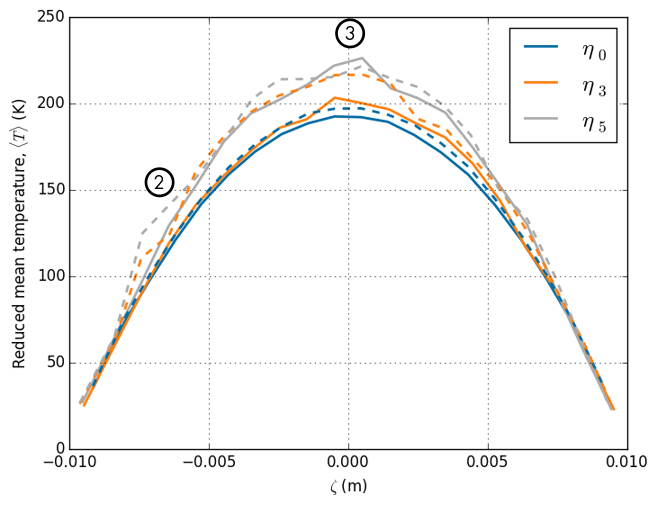
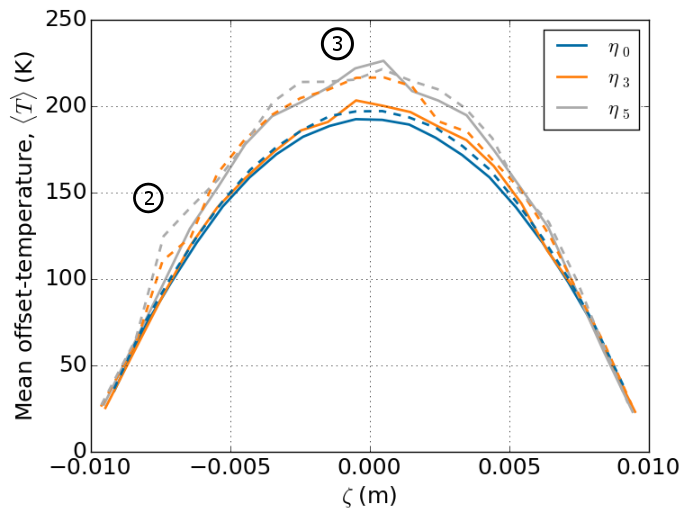
updates
changes the ISFNT section to reflect most recent updates on article.

diff --git a/chapters/application.tex b/chapters/application.tex
@@ -261,10 +261,16 @@ inlet temperature (\si{\kelvin})                    & $T_i$            & 573    
 
 
 \subsubsection{Modeling crush events}
-Models have been proposed in the past which translate experimental measurements of granular crushing into contact forces in an ensemble to predicty granular crushing, \textit{e.g.} Refs.~\cite{Gan:2010kc,Russell2009,Zhao2012,VanLew2015a,Annabattula2014}, but no validation has set any model apart as yet. Here, packed beds experience artificial pebble-crushing events for which a chosen percentage, $\eta$, of initial pebbles (at randomized locations) fragment. Four crush percentages are used: $\eta = 0, 1, 3, 5\%$. Numerical models of crush events themselves have received attention. Annabattula, Zhao, and Gan attempted to model a crushing event as either a reduction in radius of the crushed pebble or a reduction in Young's modulus \cite{Annabattula2011,Zhao2013,Annabattula2012a}. Van Lew \textit{et al}~made similar simplifications when they considered a crushed pebble as being removed from the force network, thus being removed from the DEM domain \cite{VanLew2014}. 
+Models have been proposed in the past which translate experimental measurements of granular crushing into contact forces in an ensemble to predict granular crushing, \textit{e.g.} Refs.~\cite{Gan:2010kc,Russell2009,Zhao2012,VanLew2015a,Annabattula2014}, but no validation has set any model apart as yet. Here, packed beds experience artificial pebble-crushing events for which a chosen percentage, $\eta$, of initial pebbles (at randomized locations) fragment. Four pebble crush percentages are used: $\eta = 0, 1, 3, 5\%$. Numerical models of crush events themselves have received attention. Annabattula, Zhao, and Gan attempted to model a crushing event as either a reduction in radius of the crushed pebble or a reduction in Young's modulus \cite{Annabattula2011,Zhao2013,Annabattula2012a}. Van Lew \textit{et al}~made similar simplifications when they considered a crushed pebble as being removed from the force network, thus being removed from the DEM domain \cite{VanLew2014}. 
 
 %None of the approaches discussed above have been fully validated due to a lack of experimental results. 
-Building upon the theories of earlier models, we replace a parent pebble of radius $r$ with $N_c$ smaller daughter fragments, each of equal radius, $r_c$. After a crushing event, fragments are free to resettle through interstitial gaps in the pebble bed and original pebbles respond in kind with re-arrangement into a new metastable packing structure.  To conserve volume between pre- and post-crush, we can relate the number of daughter fragments to the radius ratio between fragments and parent, $r^* = r_c/r$, as $N_c = (1/r^*)^{3}$. Experimental studies of crushing brittle pebbles show many different modes of fragmentation, often with highly irregular sizes (see \textit{e.g.} Ref.\cite{Wu2004}). As a first effort, we compare the effect of fragmentation size by studying two different values, $r^*_1 = 0.32$ and $r^*_2 = 0.2$ which results in $N_{c,1} = 23$ and $N_{c,2} = 125$ daughters per crushed parent (at $\eta = 5\%$, for $r_2^*$ the system expands to \num{43200} pebbles). Conservation of energy of crush event is enforced by setting the temperature of daughter fragments to the parent pebble at the moment of crushing. After insertion, the daughter fragment temperatures then evolve in time with standard integration.
+In this work, we replace a parent pebble of radius $r$ with $N_c$ smaller daughter fragments, each of equal radius, $r_c$. After a crushing event, fragments are free to resettle through interstitial gaps in the pebble bed and original pebbles respond in kind with re-arrangement into a new metastable packing structure.  To conserve volume between pre- and post-crush, we can relate the number of daughter fragments to the radius ratio between fragments and parent, $r^* = r_c/r$, as $N_c = (1/r^*)^{3}$. Conservation of energy of crush events is enforced by setting the temperature of daughter fragments equal to the parent pebble at the moment of crushing. 
+
+Numeric techniques to handle overlap after crush events, as a consequence of volume conservation, were shown in \Cref{sec:failure-study}. To summarize the approach, in our fragmentation procedure, overlap and the associated high contact forces between the daughter fragments is permitted. Directly following a fragmentation event, a cut-off distance is applied to the velocity-Verlet integration of daughter fragments which prevents instabilities in position; \textit{e.g.} in any given timestep fragments are only allowed to travel $x_\text{cutoff}$, regardless of the distance calculated in integration. A short time is permitted for the daughter fragments to relax away from the highly-overlapped state; relaxation time was a function of number of pebble fragments and pebble fragment size. Contact forces in the system were monitored and when average values returned to pre-fragmentation levels, the relaxation procedure concluded, cut-off distance was removed, and standard velocity-Verlet integration of daughter pebbles was reinstated.
+
+Experimental studies of crushing brittle pebbles show many different modes of fragmentation, often with highly irregular sizes (see \textit{e.g.} Ref.\cite{Wu2004}). As a first effort, we compare the effect of fragmentation size by studying two different values, $r^*_1 = 0.32$ and $r^*_2 = 0.2$ which results in $N_{c,1} = 23$ and $N_{c,2} = 125$ daughters per crushed parent (at $\eta = 5\%$, for $r_2^*$ the system expands to \num{43200} pebbles). 
+
+
 
 
 
@@ -295,13 +301,13 @@ Several cross-sections are created at mid-planes in $z$. Representative results 
     \caption{Cuts at the mid-plane of $z$ for $\chi$-config beds. (a) bed initially packed to $\phi_2$, and (b) bed with crushing of $\eta_5$ pebbles with particle size $r_2^*$. Three important zones have been identified}\label{fig:3}
 \end{figure}
 
-Mean reduced temperatures in beds are found in slices of width $\Delta\zeta$ along $\zeta$. Pebble-weighted mean values are found as $\langle T\rangle = \frac{1}{V_n}\sum_{j}^n (T_j-T_w) V_j$, for $n$ pebbles of temperature $T_j$ consuming a total volume $V_n$ in the slice. Demonstrative cases of $\phi_2 = 0.64$ with $r_2^* = 0.2$ are given in \Cref{fig:64-T-profile} as functions of granular crushing percentage.
+Wall offset temperatures ($T-T_w$) in beds are found in slices of width $\Delta\zeta$ along $\zeta$. Pebble-weighted mean values are found as $\langle T\rangle = \frac{1}{V_n}\sum_{j}^n (T_j-T_w) V_j$, for $n$ pebbles of temperature $T_j$ consuming a total volume $V_n$ in the slice. Demonstrative cases of $\phi_2 = 0.64$ with $r_2^* = 0.2$ are given in \Cref{fig:64-T-profile} as functions of granular crushing percentage.
 
-Pebble bed internal stresses are found from normal and tangential forces that make up force networks in ensembles. Following the formulations described by Gan \& Kamlah \cite{Gan:2010uq}, the magnitude of the stress tensor, $|\sigma|$, is found for every pebble bed at steady-state heating and then normalized against initial ($\eta=0$) beds for respective configurations, given in \Cref{fig:eta-sigma}.%considered configuration, $\sigma^*=|\sigma|_\eta/|\sigma|_{\eta_0}$. %Normalized bed stresses decrease with increasing granular fragmentation, as seen in \Cref{fig:eta-sigma}, for all initial packings and bed orientations, by about 30 to 60\%.
+Following the formulations described by Gan \& Kamlah \cite{Gan:2010uq}, and Gan et al.\cite{An20072233}, we report the overall hydrostatic pressure of pebble beds, $p = \sigma_{ii}/3$, at steady-state heating. The values are normalized against initial ($\eta=0$) beds for respective configurations. Hydrostatic pressure is given in \Cref{fig:eta-sigma}.%considered configuration, $\sigma^*=|\sigma|_\eta/|\sigma|_{\eta_0}$. %Normalized bed stresses decrease with increasing granular fragmentation, as seen in \Cref{fig:eta-sigma}, for all initial packings and bed orientations, by about 30 to 60\%.
 
-A total mean bed temperature is found from all pebbles in the system as $\langle T\rangle_{tot} = \frac{1}{V_N}\sum_{j}^N (T_j-T_w) V_j$ where $N$ is the total number of ensemble pebbles. The total mean bed temperature is also normalized against initial packing cases of each respective set of beds. Results for all beds are given in \Cref{fig:eta-theta}. Maximum temperature rises of every bed are also found, $T_m = \max(T) - T_w$, and normalized against the maximum temperature in the initial packing of each respective set of beds. To avoid aberrent results from a bed which might have a single, very high temperature pebble, the maximum temperature, $\max(T)$, is calculated as a mean value of the 50 highest temperature pebbles. The results are given in \Cref{fig:eta-T_max}. In addition to total mean bed temperature, maximum temperature rise is also an important factor in evaluation of a pebble bed.
+A total mean bed temperature is found from all pebbles in the system as $\langle T\rangle_{tot} = \frac{1}{V_N}\sum_{j}^N (T_j-T_w) V_j$ where $N$ is the total number of ensemble pebbles. The total mean bed temperature is also normalized against initial packing cases of each respective set of beds. Results for all beds are given in \Cref{fig:eta-theta}. Maximum temperature rises of every bed are also found, $T_m = \max(T) - T_w$, and normalized against the maximum temperature in the initial packing of each respective set of beds. To avoid aberrant results from a bed which might have a single, very high temperature pebble, the maximum temperature, $\max(T)$, is calculated as a mean value of the 50 highest temperature pebbles. The results are given in \Cref{fig:eta-T_max}. In addition to total mean bed temperature, maximum temperature rise is also an important factor in evaluation of a pebble bed.
 
-Lastly, we consider how far pebble fragments travel in the bed after a crushing event. Total displacements from the moment of crush event to final resting, $|\Delta h|$, are normalized against the original pebble diameter, $|\Delta h|/d_p$. Histograms for 64\% packing fractions of $\chi$- and $\zeta$-configurations at 5\% pebble crushing are given in \Cref{fig:displacement_hists}. These two beds saw the most settling, all other beds tested saw considerably less fragment displacements.
+Lastly, we consider how far pebble fragments travel in the bed after a crushing event. Total displacements from the moment of crush event to final resting, $|\Delta h|$, are normalized against the original pebble diameter, $|\Delta h|/d_p$. Histograms for 64\% packing fractions of $\chi$- and $\zeta$-configurations at 5\% pebble crushing with fragment sizes $r_2^*$ are given in \Cref{fig:displacement_hists}. These two beds saw the most settling, all other beds tested saw considerably less fragment travel.
 
 
 
@@ -356,33 +362,33 @@ Lastly, we consider how far pebble fragments travel in the bed after a crushing 
 
 \begin{figure}[!t]
     \centering
-    \includegraphics[width=0.5\textwidth]{figures/64-percent-T-profiles-reduced.png}
-    \caption{Mean temperature profiles, $\langle T \rangle$, along $\zeta$ in beds with initial packing fractions $\phi_2 = 0.64$, fragmentation sizes were $r_2^*$. Solid lines are $\chi$ configurations, dashes lines are $\zeta$ configurations. Fragmentation settling of $\zeta$-configs are seen in `lumps' near Zone (2) and in the $\chi$-config spike in zone (3).}
+    \includegraphics[width=0.65\textwidth]{figures/64-percent-T-profiles-reduced.png}
+    \caption{Mean offset temperature profiles, $\langle T \rangle$, along $\zeta$ in beds with initial packing fractions $\phi_2 = 0.64$, fragmentation sizes were $r_2^*$. Solid lines are $\chi$ configurations, dashed lines are $\zeta$ configurations. Fragmentation settling of $\zeta$-configs are seen in `lumps' near Zone (2) and in the $\chi$-config spike in zone (3).}
     \label{fig:64-T-profile}
 \end{figure}
 
 \begin{figure}[!t]
     \centering
-    \includegraphics[width = 0.5\textwidth]{figures/eta-sigma.png}
+    \includegraphics[width = 0.65\textwidth]{figures/eta-sigma.png}
     \caption{Dashed lines represent the lower packing fraction, $\phi_1 = 0.62$, solid lines are $\phi_2 = 0.64$. Markers are: $\circ$ for $\zeta$-config, $\diamondsuit$ for $\chi$-config. Color differentiates the fragment radius ratio. Contact force relaxation is more rapid for lower packing fractions.}\label{fig:eta-sigma}
 \end{figure}
 
 \begin{figure}[!t]
     \centering
-    \includegraphics[width = 0.5\textwidth]{figures/eta-theta.png}
+    \includegraphics[width = 0.65\textwidth]{figures/eta-theta.png}
     \caption{Dashed lines represent the lower packing fraction, $\phi_1 = 0.62$, solid lines are $\phi_2 = 0.64$. Markers are: $\circ$ for $\zeta$-config, $\diamondsuit$ for $\chi$-config. Color differentiates the fragment radius ratio. Lower packing fraction is the most dominant parameter for overall bed temperature. Amongst the same packing fraction, fragment size is most influential factor.}\label{fig:eta-theta}
 \end{figure}
 
 \begin{figure}[!t]
     \centering
-    \includegraphics[width = 0.5\textwidth]{figures/eta-T_max.png}
+    \includegraphics[width = 0.65\textwidth]{figures/eta-T_max.png}
     \caption{Dashed lines represent the lower packing fraction, $\phi_1 = 0.62$, solid lines are $\phi_2 = 0.64$. Markers are: $\circ$ for $\zeta$-config, $\diamondsuit$ for $\chi$-config. Color differentiates the fragment radius ratio. The dominant parameter influencing maximum bed temperature varies as a function of the number of crushed pebbles in the bed.}\label{fig:eta-T_max}
 \end{figure}
 
 \begin{figure}[!t]
     \centering
     \includegraphics[width = 0.65\textwidth]{figures/displacement_histograms.png}
-    \caption{Normalized displacement histograms. $\chi$-config: 59.7\% of fragments travel up to \SI{1}{\milli\meter} and 8.2\% travel more than \SI{2}{\milli\meter}; $\zeta$-config: 60.7\% of fragments travel up to \SI{1}{\milli\meter}, 7.9\% travel more than \SI{2}{\milli\meter}.}\label{fig:displacement_hists}
+    \caption{Normalized displacement histograms for fragment sizes of $r_2^* = 0.2$ with $\eta = 5\%$. $\chi$-config: 59.7\% of fragments travel up to \SI{1}{\milli\meter} and 8.2\% travel more than \SI{2}{\milli\meter}; $\zeta$-config: 60.7\% of fragments travel up to \SI{1}{\milli\meter}, 7.9\% travel more than \SI{2}{\milli\meter}.}\label{fig:displacement_hists}
 \end{figure}
 
 % Conductive heat transport in granular materials is dependent on normal forces between pebbles, and normal forces need not be isotropically distributed through beds. To investigate directional dependence, we calculate angular distributions of granular contacts and forces between every pair of interacting pebbles in the ensemble. Contact angle is measured between vectors pointing between contacting pebbles and $\zeta$. In other words, the most direct path for heat out of the system is along contacts at angles of $\theta=0,\pi$; magnitudes of contact forces around those angles dictate the ability of systems to discharge heat to coolant. A mean contact force, $\langle F_n \rangle$, is found inside wedges of $\Delta\theta$ in the same manner described above for ensemble-averaged temperature values. Mean forces for varying fragmentation amount, fragmentation size, initial packing density, and orientation are plotted in \Cref{fig:force-polars}.
@@ -411,15 +417,15 @@ Lastly, we consider how far pebble fragments travel in the bed after a crushing 
 
 Analyzing results of all the pebble beds in this study revealed two main contributors to bed temperatures with resettling from pebble crushing: final settling location of fragment particles and overall contact force relaxation. The two interacting contributors were found to be expressed to different extents depending on crush amount and bed configuration.
 
-Bed stress (a global measure of inter-particle contact forces) is predominately a function of initial packing fraction alone, as seen in \Cref{fig:eta-sigma}. Smaller initial packing fractions had their internal stress reduced more rapidly as pebbles crushed in the ensemble. Breeder orientation appears to have less impact on stress relief than size of crush fragments. Due to the inter-connected nature of the force network, and geometry of beds studied here, resettling in beds and contact force relaxation is uniform throughout the beds. Thus we expect reductions in contact forces to directly result in an overall increase of bed temperatures. This is reflected in the curves of \Cref{fig:eta-theta}. Total mean temperatures of $\phi_1 = 0.62$ beds increased between \numrange{16}{19}\% at $\eta = 5\%$. Yet beds initially packed to $\phi_2 = 0.64$ increased by only \numrange{10}{13}\% at the same value of crushed pebble amount.
+Hydrostatic pressure (a global measure of inter-particle contact forces) is predominately a function of initial packing fraction alone, as seen in \Cref{fig:eta-sigma}. Smaller initial packing fractions had their internal hydrostatic pressures reduced more rapidly as pebbles crushed in the ensemble. Breeder orientation appears to have less impact on stress relief than size of crush fragments. Due to the inter-connected nature of the force network, and geometry of beds studied here, resettling in beds and contact force relaxation is uniform throughout the beds. Thus we expect reductions in contact forces to directly result in an overall increase of bed temperatures. This is reflected in the curves of \Cref{fig:eta-theta}. Total mean temperatures of $\phi_1 = 0.62$ beds increased between \numrange{16}{19}\% at $\eta = 5\%$. Yet beds initially packed to $\phi_2 = 0.64$ increased by only \numrange{10}{13}\% at the same value of crushed pebble amount.
 
-Fragment settling location, on the contrary, is strongly dependent on fragment size and breeder orientation. The pebble fragments have very poor thermal conductance to neighboring pebbles because they do not exist in the larger pebbles' force network. Fragment temperatures are therefore mostly regulated by convection with interstitial helium and their influence on bed temperatures is much more complex. The effect becomes more pronounced with decreasing size of fragments.
+Fragment settling location, on the contrary, is strongly dependent on fragment size and breeder orientation. Larger pebble fragments generally did not travel far, settling loosely in regions near the point of fragmentation. Smaller fragments were seen to be capable of traveling much further through interstitial gaps between pebbles before also coming to rest with loose settlings. The looseness of the fragment settling is indicated by their ensemble-average coordination number (counting only the fragments) for $r_1*$ and $r_2^*$, respectively, as $\langle Z \rangle = 3.2$ and $\langle Z \rangle = 2.8$. Contacts with walls or floors are not counted in this coordination number. A consequence of loose packings of fragments is poor thermal conductance to neighboring pebbles. Fragment temperatures are therefore mostly regulated by convection with interstitial helium and their influence on bed temperatures is much more complex.
 
-To identify the effects of fragment settling, we look to \Cref{fig:displacement_hists} and the several zones demarcated in the results of \Cref{fig:1,fig:3}. The displacement histogram reveals settling as a relatively localized event. Most fragments, even in this case of smallest fragment size and largest crushing amount, remain approximately at the location of the parent pebble; for both configurations, approximately 60\% travel less than 1 pebble diameter (\SI{1}{\milli\meter}). However, in both configurations, approximately 8\% of fragments travel more than 2 diameters, and those pebbles have a significant impact on the ensembles overall thermal response.
+To identify the effects of fragment settling, we look to \Cref{fig:displacement_hists} and the several zones demarcated in the results of \Cref{fig:1,fig:3}. The majority of fragments, even in this case of smallest fragment size and largest crushing amount, remain approximately at the location of the parent pebble; for both configurations, approximately 60\% travel less than 1 pebble diameter (\SI{1}{\milli\meter}). However, in both configurations, approximately 8\% of fragments travel more than 2 diameters, and those pebbles have a significant impact on the ensembles overall thermal response.
 
 In $\zeta$-configuration beds, pebbles traveling more than a few pebble diameters will move between colored isotherms drawn in \Cref{fig:1}. For example we can see the fragment group identified in Zone (1) as moving downward, away from the top wall. Similarly, when pebbles in Zone (3) are crushed, some of the fragments tumble downward into Zone (2) before coming to rest where they continue to receive volumetric heating. Thus the fragments, with poor thermal conductance, increase heating in the regions where they settle. The effect is seen in the $\eta = 3, 5\%$ temperature profiles in \Cref{fig:64-T-profile} that are asymmetric with lower temperatures in the top half (above Zone (3)) and higher temperatures in the region near Zone (2).
 
-In contrast, $\chi$-config beds respond much differently to pebble fragment settling. We again see from cross-sections in \Cref{fig:3} a pebble identified in Zone (1) that breaks but remains in that zone after settling. The trend continues in other regions of the bed. Because of the gravity's effect, when pebbles are crushed in the $\chi$-config beds, they fall downward but remain generally in the same isotherm, as drawn in \Cref{fig:3}. According to \Cref{fig:64-T-profile}, the effect of pebble crushing has little effect up to 3\% of damaged pebbles. But suddenly at $\eta = 5\%$, the combination of reduced overall bed stress and fragmentation heating causes the maximum bed temperature to jump above all other $\phi = 64\%$ beds (see \Cref{fig:64-T-profile} and \Cref{fig:eta-T_max}). The temperature increase in this $\chi$-config bed is due to the accumulation of pebble fragments that remain in Zone (3), only tumbling to lower heights. Helium that enters the $\chi$-configuration bed reaches higher temperatures more quickly due to the increased heating from fragments which settled at lower heights of $y$. Helium then continues to heat from the many fragments in Zone (3) which ultimately results in the highest maximum bed temperatures (for the given packing fraction). This can also be seen with comparison between \Cref{fig:1,fig:3}: the $\chi$-config bed reaches the \SI{780}{\kelvin} contour at a much lower height than the $\zeta$-configuration. 
+In contrast, $\chi$-config beds respond much differently to pebble fragment settling. We again see from cross-sections in \Cref{fig:3} a pebble identified in Zone (1) that breaks but remains in that zone after settling. The trend continues in other regions of the bed. When pebbles are crushed in the $\chi$-config beds, gravity causes them to fall downward but remain generally in the same isotherm, as drawn in \Cref{fig:3}. According to \Cref{fig:64-T-profile}, the effect of pebble crushing has little effect up to 3\% of damaged pebbles. But suddenly at $\eta = 5\%$, the combination of reduced overall bed pressure and fragmentation heating causes the maximum bed temperature to jump above all other $\phi = 64\%$ beds (see \Cref{fig:64-T-profile} and \Cref{fig:eta-T_max}). The temperature increase in this $\chi$-config bed is due to the accumulation of pebble fragments that remain in Zone (3), only tumbling to lower heights. Helium that enters the $\chi$-configuration bed reaches higher temperatures more quickly due to the increased heating from fragments which settled at lower heights of $y$. Helium then continues to heat from the many fragments in Zone (3) which ultimately results in the highest maximum bed temperatures (for the given packing fraction). This can also be seen with comparison between \Cref{fig:1,fig:3}: the $\chi$-config bed reaches the \SI{780}{\kelvin} contour at a much lower height than the $\zeta$-configuration. 
 
 
 
@@ -557,13 +563,15 @@ Travel of pebble fragments also manifests in changes to local packing fraction. 
 \subsection{Conclusions}
 We conducted several multi-scale simulations of granular heat transfer using coupled CFD-DEM simulations of representative tritium-breeding ceramic pebble bed volumes with parametric variations of: bed orientation with respect to gravity, pebble crushing amount, initial packing fraction, and crushed fragmentation size.
 
-There was one general trend observed that reiterates past conclusions from solid breeder research. Namely, more persistent behavior is witnessed in pebble beds with higher initial packing fractions. In this study, the most dominant parameter observed to affect temperatures in pebble beds was the initial packing fraction: beds with higher initial packing fraction had smaller increases in bed temperatures due to pebble crushing. We therefore conclude that manual densification, from either long-term vibration packing or load-induced pre-compaction, must be done to ceramic pebble bed volumes to gain some temperature control during operation in a fusion reactor. To achieve packing fractions of $64\%$ in the relatively small sizes of this study, for example, a load of over \SI{1}{\mega\pascal} was necessary. In the assembly of tritium breeding modules, it must be kept in mind that similar pre-compactions may need to be performed.
+There was one general trend observed that reiterates past conclusions from solid breeder research. Namely, more persistent behavior is witnessed in pebble beds with higher initial packing fractions. In this study, the most dominant parameter observed to affect temperatures in pebble beds was the initial packing fraction: beds with higher initial packing fraction had smaller increases in bed temperatures due to pebble crushing. We therefore conclude that manual densification, from either long-term vibration packing or load-induced pre-compaction, must be done to ceramic pebble bed volumes to gain some temperature control during operation in a fusion reactor. To achieve packing fractions of $64\%$ in the relatively small sizes of this study, for example, a load of over \SI{1}{\mega\pascal} was necessary. In the assembly of tritium breeding modules, it must be kept in mind that similar pre-compaction may need to be performed.
 
-As stated earlier, a concern with the $\zeta$ design is the possibility of gap formation between pebble bed and upper walls after bed resettling, particularly after pebble fragmentation. In this study, we found pebble beds initially packed to $\phi = 62\%$ experienced the highest increases in both total average bed temperature as well as maximum temperature rise. The comparably looser packing allowed a quick reduction in bed stresses and consequently a reduction in heat conduction to the upper wall. Nevertheless, no gaps were detected even at 5\% of pebbles crushed. However, temperatures in pebble beds packed to 64\% showed a resistance to fragmentation; overall average temperatures were comparable to $\chi$-configurations, and in fact these EU-style beds had the lowest maximum temperatures for beds with many crushed pebbles. We showed that freedom of fragments to travel between zones in these beds prevented a build-up of loose fragments (and thereby avoided build-up of heating) in the hottest regions.
+As stated earlier, a concern with the $\zeta$ design is the possibility of gap formation between pebble bed and upper walls after bed resettling, particularly after pebble fragmentation. In this study, we found pebble beds initially packed to $\phi = 62\%$ experienced the highest increases in both total average bed temperature as well as maximum temperature rise. The comparably looser packing allowed a quick reduction in hydrostatic pressures and consequently a reduction in heat conduction to the upper wall. Nevertheless, no gaps were detected even at 5\% of pebbles crushed. However, temperatures in pebble beds packed to 64\% showed a resistance to fragmentation; overall average temperatures were comparable to $\chi$-configurations, and in fact these EU-style beds had the lowest maximum temperatures for beds with many crushed pebbles. We showed that freedom of fragments to travel between zones in these beds prevented a build-up of loose fragments (and thereby avoided build-up of heating) in the hottest regions.
 
 As for the $\chi$-configurations, we found that when there were not many broken pebbles ($\eta \le 3$\%), these beds generally had lower temperatures in comparison to similar $\zeta$-config beds. But as $\eta$ went above 3\% for many of the beds, the averaged bed temperature and, importantly, the maximum temperature rise actually jumped above the $\zeta$-configurations. We showed that for these beds it was the inability for fragments to move between zones which left many small fragments to settle in the hottest region, further contributing to heating.
 
-From the results we have shown, it is obvious that pebble crushing and bed resettling effects on temperature are complicated, non-linear functions of breeder design and ceramic material employed. We found indications of certain operational spaces for which different designs excelled. For instance, if one were using a material known to have a limited crush strength, one might accept that many pebbles could break (at least up to 5\%, as studied here) over the life of the breeder and choose to employ the $\zeta$-style which avoided large increases in temperature after long operation of the breeder. Alternatively, if one had a ceramic material with a larger crush strength, the $\chi$-design would be preferable as it generally retained lower overall and maximum bed temperatures when fewer pebbles in the ensemble were crushed.
+From the results we have shown, it is obvious that pebble crushing and bed resettling effects on temperature are complicated, non-linear responses and are particular to breeder design and ceramic material employed. We found indications of certain operational spaces for which different designs responded less severely to pebble crushing. For instance, from the point of view of temperature response in pebble beds, if one were to employ a material known to have a limited crush strength, one might accept that many pebbles could break (at least up to 5\%, as studied here) over the life of the breeder and choose to employ the $\zeta$-style which avoided large increases in temperature after long operation of the breeder. Alternatively, if one had a ceramic material with a larger crush strength, the $\chi$-design would be preferable as it generally retained lower overall and maximum bed temperatures when fewer pebbles in the ensemble were crushed.
+
+It must be pointed out that the findings discussed here are concerned primarily with temperature distribution, without consideration for other consequences of pebble crushing such as blocking of helium purge, and thereby tritium extraction, by clogging from fragment dust or particulates. Clogging of purge flow is specific to each pebble bed design and must receive future attention in its own right.
 
 This study was performed on some generic geometries and has provided some generalized conclusions. But in light of the pebble beds' complex responses, as breeder designs continue to evolve into their final form before deployment in ITER, CFD-DEM models should continuously be employed to study the specific thermomechanical responses to pebble crushing and bed resettling unique to each design.
 

diff --git a/scripts/keff-irradiated/scatter-plots-temperature-cfd-Tmid-comparisons.py b/scripts/keff-irradiated/scatter-plots-temperature-cfd-Tmid-comparisons.py
@@ -64,8 +64,8 @@ for j, loadfile in enumerate(loadfiles):
 
 array = [1, .8, .6, .4, .3, .2, .1, .01]
 Tmid = np.insert(Tmid, 0, 823)
-Tstar = (Tmid - To)
-Tstar = Tstar/Tstar[0]
+# Tstar = (Tmid - To)
+Tstar = Tmid/Tmid[0]
 plt.scatter(array, Tstar, s=60, linewidth = 2, edgecolors = color_idx[0], facecolors='None', label= "Q = %s"%(8e6*.64))
 
 
@@ -157,9 +157,9 @@ for j, loadfile in enumerate(loadfiles):
 
 array = [1, .8, .6, .4, .3, .2, .1, .01]
 
-Tstar = (Tmid - To)/((8.e6)*(0.01**2))
+#Tstar = (Tmid - To)/((8.e6)*(0.01**2))
 
-Tstar = Tstar/Tstar[0]
+Tstar = Tmid/Tmid[0]
 
 plt.scatter(array, Tstar, s=20, marker = 's', linewidth=2, edgecolors= color_idx[1], facecolors='None', label= "Q = %s"%(8e6))
 

diff --git a/scripts/lbm/temperature-comparison-filled-crushed.py b/scripts/lbm/temperature-comparison-filled-crushed.py
@@ -37,10 +37,10 @@ def load_cfd_dem_csv(filename):
    
 
 # CFD-DEM~~~~~~~~~~~~~~~~~~~~~~~~~~~~~~~~~~~~~~~~~~~~~~~~~~~~~~~~
-x_cfd, phi, U, T = load_cfd_dem_csv('filled-cfd-dem.csv')
+x_cfd, phi, U, T = load_cfd_dem_csv('large-files/filled-cfd-dem.csv')
 plt.plot(x_cfd, T, color=color_idx[0], linewidth=2, label='CFD-DEM, filled')
 
-x_cfd, phi, U, T = load_cfd_dem_csv('crushed-cfd-dem.csv')
+x_cfd, phi, U, T = load_cfd_dem_csv('large-files/crushed-cfd-dem.csv')
 plt.plot(x_cfd, T, color=color_idx[0], linewidth=2, linestyle='--', label='CFD-DEM, crushed')
 # CFD-DEM~~~~~~~~~~~~~~~~~~~~~~~~~~~~~~~~~~~~~~~~~~~~~~~~~~~~~~~~
 

diff --git a/VanLewDissertation.tex b/VanLewDissertation.tex
@@ -15,7 +15,7 @@
 \input		{acknowledgements}
 \input		{vita}
 \input		{abstract}
-\begin{document}
+\begin{document}   
 \makeintropages
 \input		{chapters/introduction.tex}
 \input		{chapters/litreview.tex}
